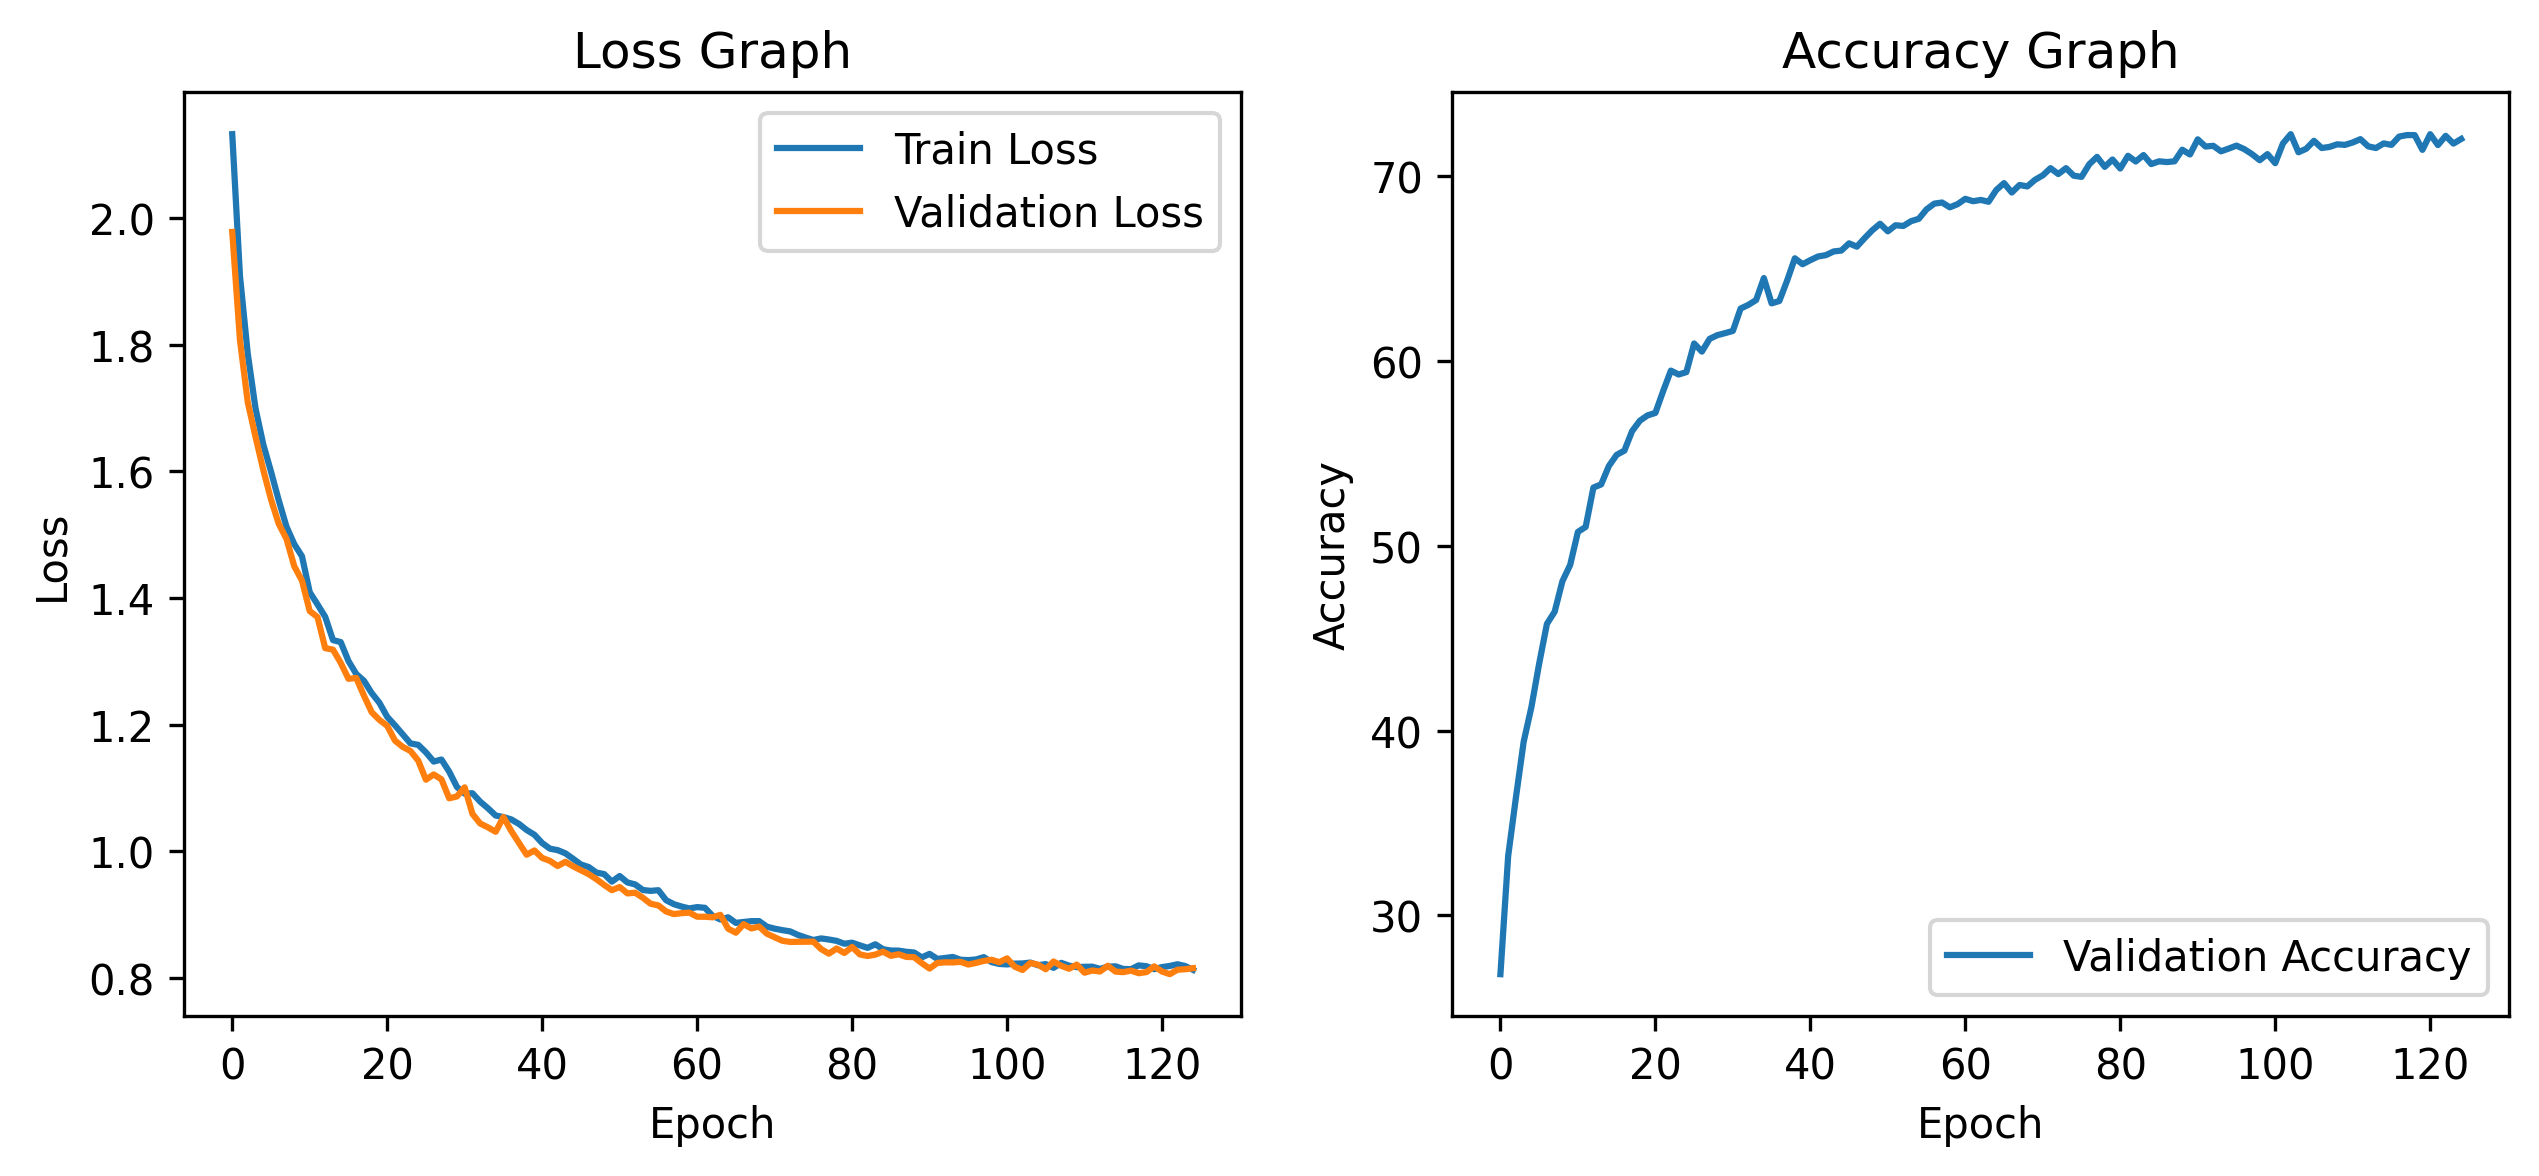
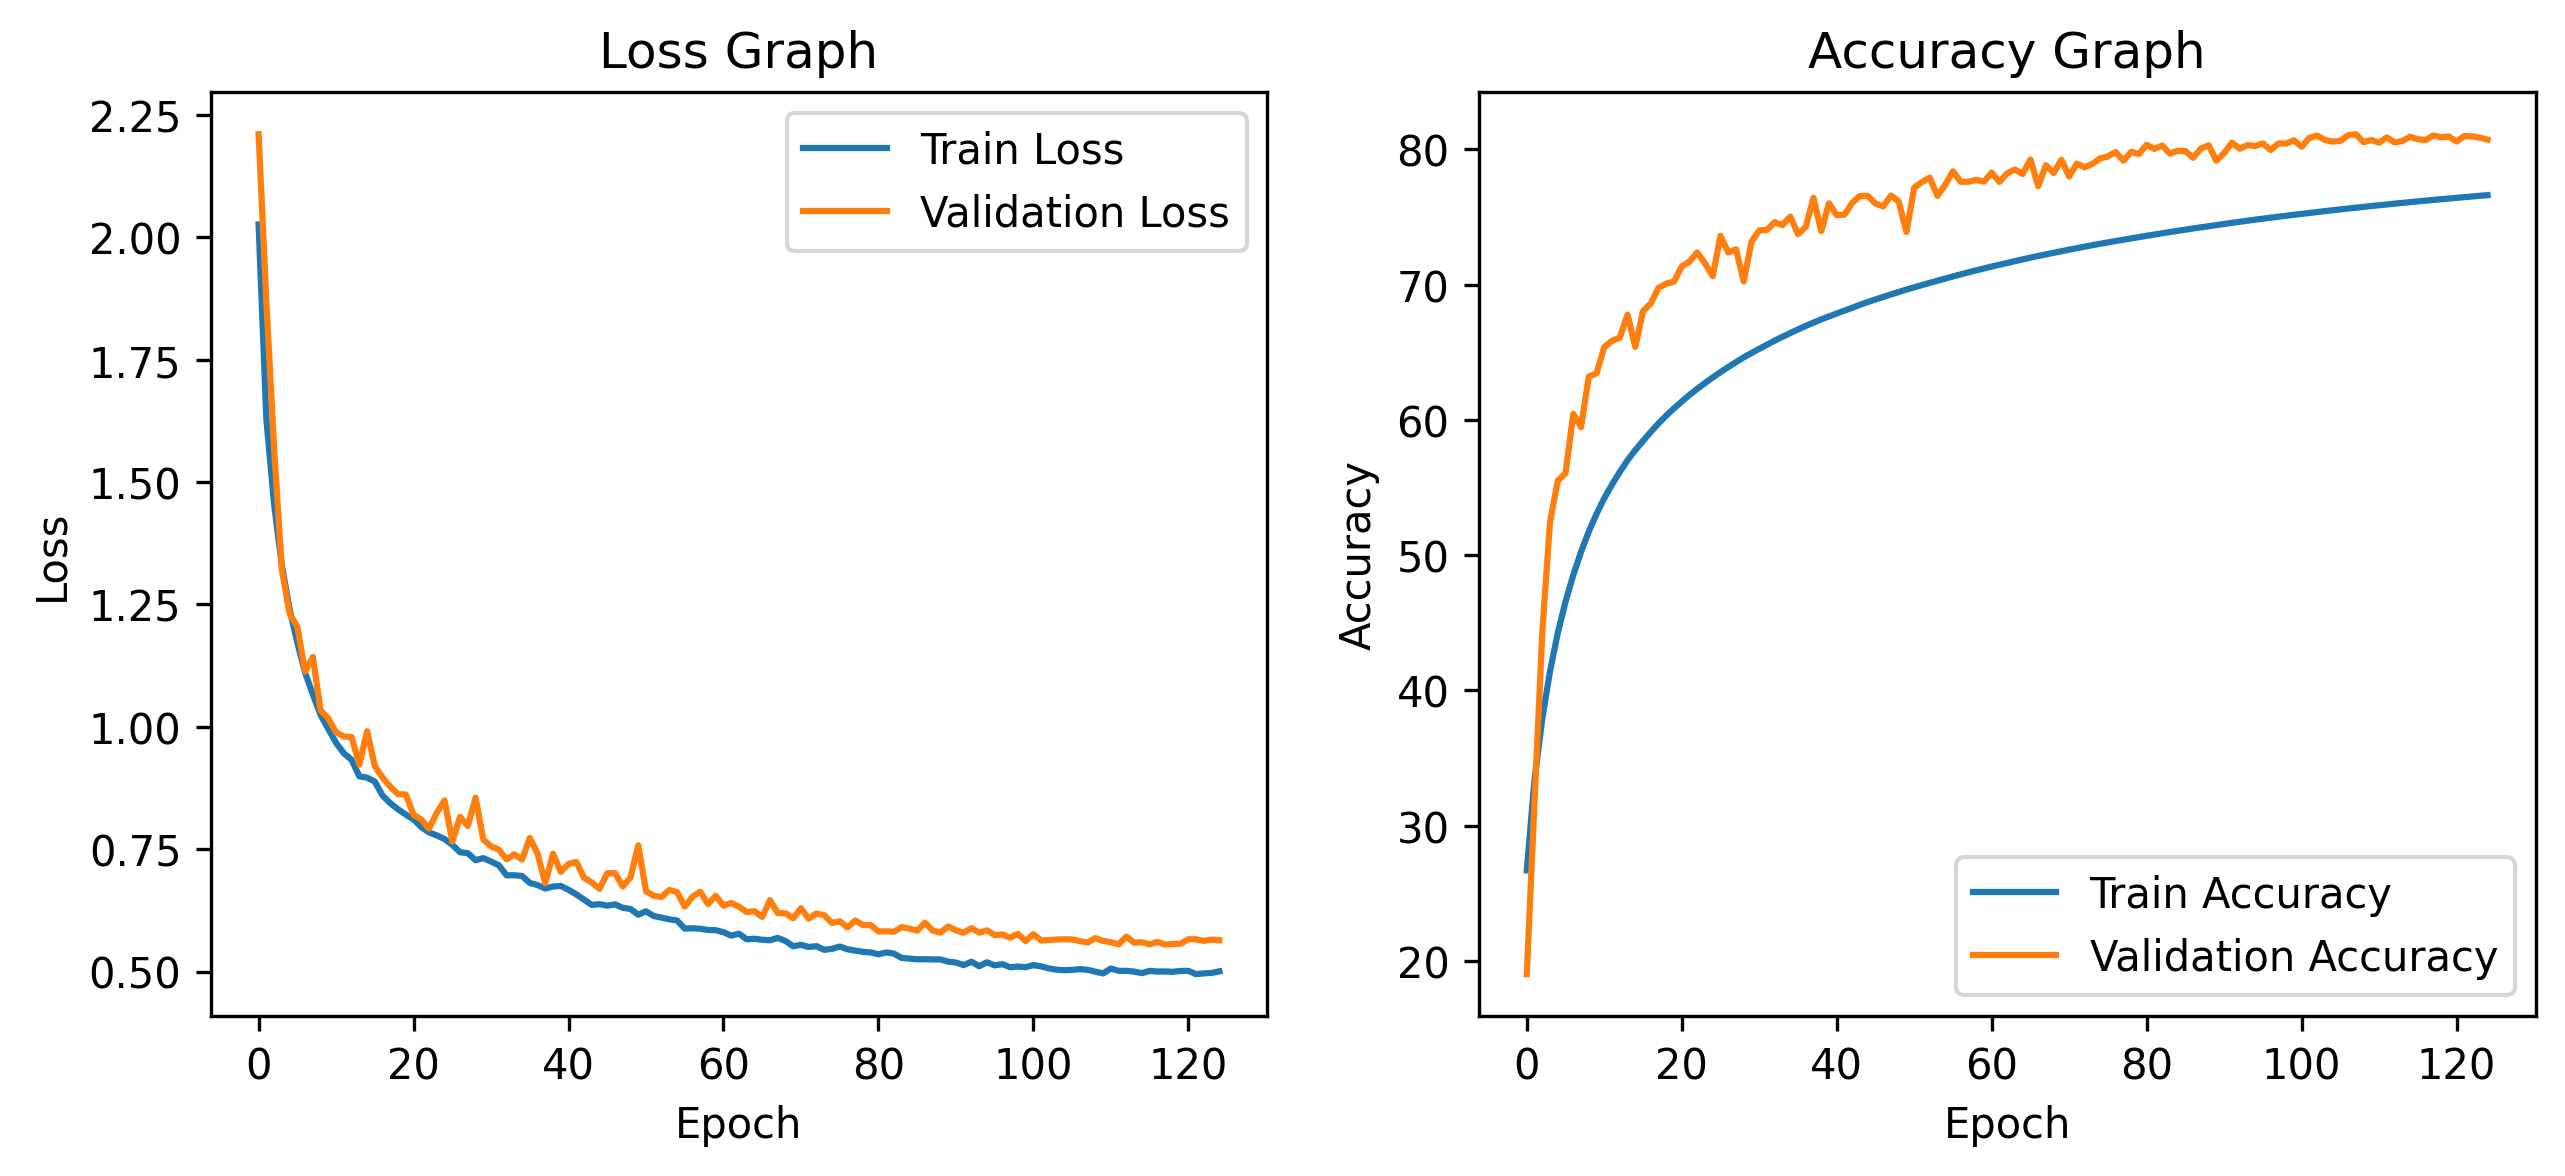
- use adamw

diff --git a/src/NeuralNetwork.py b/src/NeuralNetwork.py
@@ -7,18 +7,18 @@ import torchvision.transforms as transforms
 class NeuralNetwork(nn.Module):
     def __init__(self):
         super().__init__()
-        self.learningRate = 0.1
+        self.learningRate = 0.001
         self.momentum = 0.9
         self.decay = 5e-4
         self.tMax = 125
-        self.learningRateMin = 0.0001
+        self.learningRateMin = 0.0000001
 
         self.InitLayers()
         self.PrepareTransforms()
 
         self.loss_function = nn.CrossEntropyLoss()
-        self.optimizer = optim.SGD(self.parameters(), lr = self.learningRate, momentum = self.momentum, weight_decay = self.decay)
-        # self.optimizer = optim.AdamW(self.parameters(), lr = self.learningRate, weight_decay = self.decay)
+        # self.optimizer = optim.SGD(self.parameters(), lr = self.learningRate, momentum = self.momentum, weight_decay = self.decay)
+        self.optimizer = optim.AdamW(self.parameters(), lr = self.learningRate, weight_decay = self.decay)
         self.scheduler = torch.optim.lr_scheduler.CosineAnnealingLR(self.optimizer, T_max = self.tMax, eta_min = self.learningRateMin)
         
     def InitLayers(self):